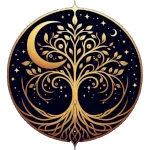
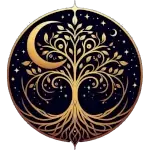
optimized images. Added Hero image and call to action

diff --git a/chamber/styles/home.css b/chamber/styles/home.css
@@ -1,3 +1,39 @@
+.hero {
+    margin: 0 auto;
+    position: relative;
+}
+
+.hero img {
+    width: 100%;
+}
+
+.call-action {
+    float: left;
+    position: absolute;
+    right: 15%;
+    bottom: 40px;
+    max-width: 25%;
+    align-items: center;
+    text-align: center;
+    z-index: 50;
+}
+
+.call-action a {
+    background-color: var(--secondary-color);
+    color: var(--secondary-color-text);
+    border-radius: 10px;
+    padding: 15px;
+    box-shadow: 0 4px 8px 0 #00000080;
+    text-decoration: none;
+    font-size: 1.2em;
+    z-index: 100;
+}
+
+.call-action a:hover {
+    background-color: var(--accent1-color);
+    color: var(--accent1-color-text);
+}
+
 .home-highlights,
 #member-spotlight {
     display: flex;
@@ -83,7 +119,20 @@
     margin-left: 15px;
 }
 
+/**********************/
+/* dark mode settings */
+/**********************/
+
+body.dark-mode .home-card,
+body.dark-mode .featured-member-card {
+    background-color: var(--dark-card-color);
+}
+
 @media screen and (min-width: 640px) {
+    .call-action a {
+        font-size: 1.5em;
+    }
+    
     .home-highlights,
     #member-spotlight {
         flex-direction: row;

diff --git a/chamber/index.html b/chamber/index.html
@@ -55,8 +55,11 @@
             </ul>
         </nav>
     </header>
+    <div class="hero">
+        <div class="call-action"><a href="join.html">Join&nbsp;Now</a></div>
+        <img src="images/hero-image-small.webp" srcset="images/hero-image-small.webp 640w, images/hero-image-medium.webp 1000w, images/hero-image-large.webp 2500w" alt="Middle Earth Chamber of Commerce chapter grand assembly">
+    </div>
     <main>
-        <div class="hero">hero image</div>
         <h1>Home</h1>
         <div class="home-highlights">
             <div class="home-card events">
@@ -68,6 +71,7 @@
             <div class="home-card current-weather">
                 <h2 class="home-card-title">Current Weather</h2>
                 <div id="current-weather">
+                    <!-- Need to add width and height -->
                     <img src="https://openweathermap.org/img/w/04n.png" alt="placeholder weather icon" class="weather-icon">
                     <div class="weather-data">
                         <p><strong>75°</strong> F</p>

diff --git a/chamber/styles/common.css b/chamber/styles/common.css
@@ -29,6 +29,7 @@
     --dark-page-background: #111111;
     --dark-card-background: white;
     --dark-primary-color-text: #002238;
+    --dark-card-color: #424242;
 }
 
 * {

diff --git a/chamber/styles/directory.css b/chamber/styles/directory.css
@@ -90,6 +90,6 @@
 }
 
 body.dark-mode .company-card {
-    background-color: #424242;
+    background-color: var(--dark-card-color);
     box-shadow: none;
 }
